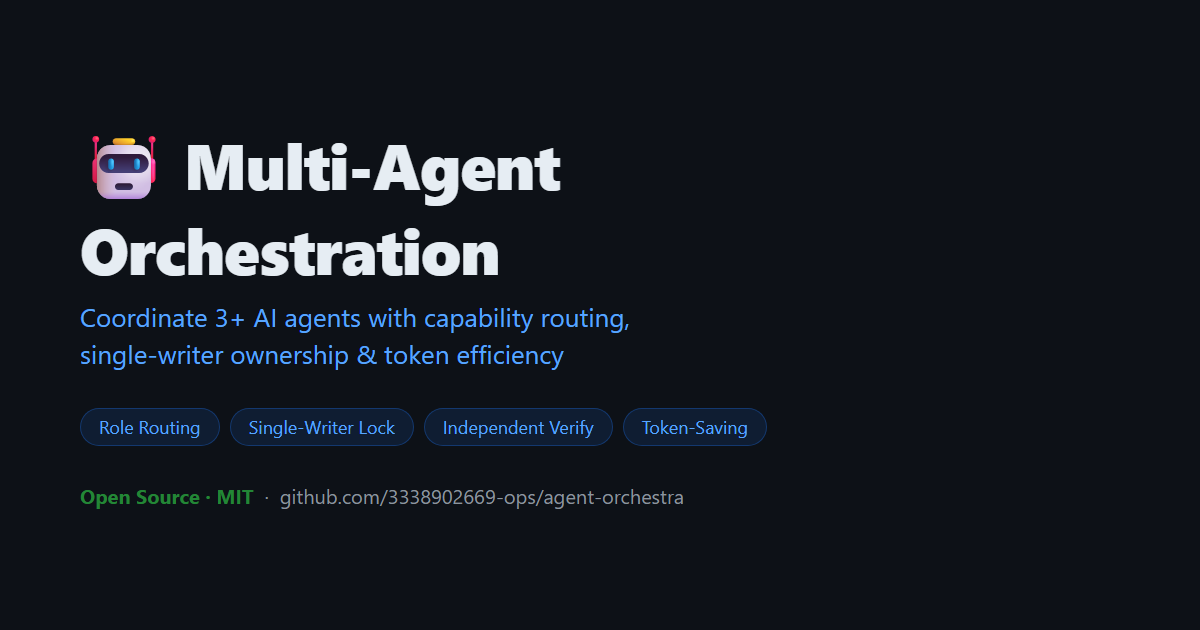
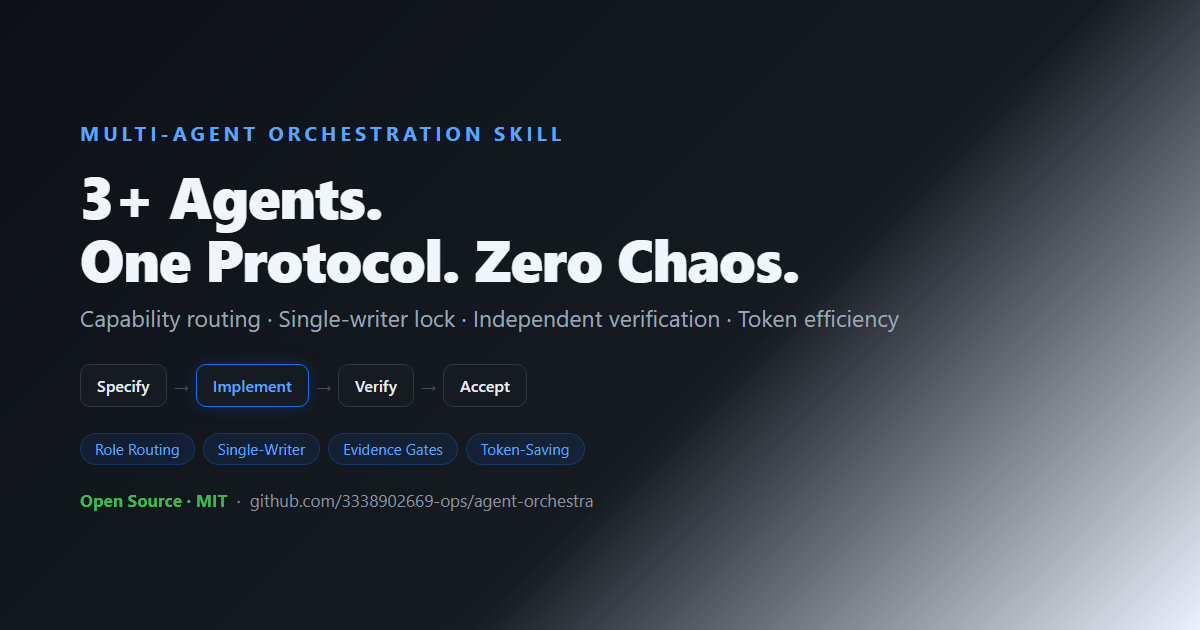
content: full Chinese long-form article in promotion, professional OG image redesign

diff --git a/promotion.md b/promotion.md
@@ -52,16 +52,91 @@ MIT 协议，欢迎拿去改。
 
 ---
 
-## 四、掘金 / 知乎 / 技术博客（中文长文标题与摘要）
+## 四、掘金 / 知乎 / 技术博客（中文长文，完整发布版）
 
-标题候选：
-- 《多 Agent 协作的正确姿势：能力路由 + 单写入者 + 独立验收》
-- 《我如何让 3 个 AI agent 协作不互相踩脚，还省了一半 token》
-- 《开源一套可落地的多 Agent 编排协议》
+### 标题
 
-摘要：多个 AI agent 并行协作时，最常见的三个事故是：角色靠名字猜、文件互相覆盖、验收靠自说自话。这篇文章分享一套已在本机稳定运行的编排协议——能力优先路由、单资源主写入锁、重要任务四级流水线、外部动作人工批准，以及一整套 token 成本控制策略。已开源，MIT 协议。
+**《多 Agent 协作的正确姿势：能力路由 + 单写入者 + 独立验收，顺便省一半 token》**
 
----
+### 摘要
+
+多个 AI agent 并行协作时，最常见的三个事故是：角色靠名字猜、文件互相覆盖、验收靠自说自话。本文分享一套已在生产环境稳定运行的编排协议——能力优先路由、单资源主写入锁、重要任务四级流水线、外部动作人工批准，以及一整套 token 成本控制策略。已开源，MIT 协议。
+
+### 一、问题：三个 agent 一起干活，为什么总是翻车？
+
+如果你同时把任务交给三个 AI agent，大概率会踩到这三个坑：
+
+**坑 1：角色靠名字猜。** 叫 "coder" 的 agent 去做架构，叫 "reviewer" 的从不碰代码，谁也没在分配工作前验证过能力。名字是标签，能力是事实，两者经常对不上。
+
+**坑 2：文件互相覆盖。** 两个 agent 同时编辑同一个文件，后写者静默胜出，diff 看不懂，改完的代码谁也不知道是哪一版。
+
+**坑 3：验收自说自话。** 实现的 agent 自己测自己、自己宣布"做完了"。没有独立复核，等于考试自己给自己打分。
+
+这三点我全踩过。踩完之后我把流程重写了一遍，开源成一套可配置的协作协议。
+
+### 二、解法：四层设计
+
+#### 1. 能力发现，不靠名字猜
+
+任务开始前，每个 agent 提交一份紧凑的能力清单：模型、工具、读写权限、专长、成本等级、可用状态。角色分配（协调者、实现者、验证者、环境专家、领域评审）按证据打分，而不是按品牌名。
+
+- 3 分：有直接工具且有反复证据
+- 2 分：能力合理且有部分证据
+- 1 分：间接或未验证
+- 0 分：不可用或被禁用
+
+选最高分，再偏好低成本、低争用的 agent；平分时按可用性和历史证据，绝不按名单顺序。
+
+#### 2. 单写入者：一个文件，一个主人
+
+同一文件或资源在同一任务里只允许一个主写入者。评审者只能写隔离的产物——测试、报告、补丁——永远不覆盖主人的文件。不再有"静默的最后写入者胜出"。
+
+需要换主人？走正式交接：旧主人、新主人、原因、基线、下一步检查，全部记录在案。
+
+#### 3. 风险分级：routine / important / critical
+
+- **routine（日常）**：短路径，一个 agent 可多角色。
+- **important（重要）**：必须走完整流水线 —— 规划 → 实现 → 验证 → 验收，且验证者必须独立。
+- **critical（关键）**：再加领域评审，部署/发布/发送/删除等外部动作必须有人工批准记录。
+
+"这是重要任务"这句话就足以把任务升级。你也可以在配置里定义你自己的触发规则。
+
+#### 4. 验收门禁：没证据，就不许说"完成"
+
+不允许在没有证据的情况下宣称 done / verified / deployed。验收必须覆盖：
+
+- 真实运行时的行为（不是只看代码）
+- 目标环境（桌面 + 移动视口）
+- 核心交互、错误输出
+- 键盘可达性与可访问性
+- 资源加载、回退行为、减动效模式
+
+门禁失败就把任务退回对应阶段，而不是悄悄"差不多得了"。
+
+### 三、token 成本控制：省钱不省正确性
+
+这一层很多人忽略，但对 API 账单影响巨大：
+
+1. **一个规范任务包**，而不是把完整聊天记录贴进每个 agent 的 prompt。
+2. **有界输出**：要求 agent 返回 JSON 或带必填字段的短报告。
+3. **并行只读、串行写入**：独立的只读检查并行跑，写操作和依赖工作保持串行。
+4. **模型分层**：便宜模型干发现、提取、格式化、机械检查；强模型只留给歧义、架构、对抗性复核和最终验收。
+5. **缓存稳定结果**：按 revision/hash 缓存发现与测试结果。
+6. **停止阈值**：所有验收标准都有新鲜证据后，停止探索性工作。
+7. **绝不压缩**：需求、权限、精确报错、代码、路径、URL、哈希、验收证据——这些一个字都不能省。
+
+省钱的前提是永远不省正确性。
+
+### 四、诚实的边界
+
+这不是"保证不出错"的银弹。它是一套让错误**可见、可回滚、可追责**的控制：停止条件、可恢复基线、批准记录、残余风险报告。这已经是编排层能做到的极限——而且通常足以挡住前面那三个经典事故。
+
+### 五、获取方式
+
+- 仓库：https://github.com/3338902669-ops/agent-orchestra
+- 落地页：https://3338902669-ops.github.io/agent-orchestra/
+- 一键安装：Windows 执行 scripts/install.ps1，Linux/macOS 执行 scripts/install.sh
+- 协议：MIT，随便拿去改
 
 ## 五、发布注意事项
 
